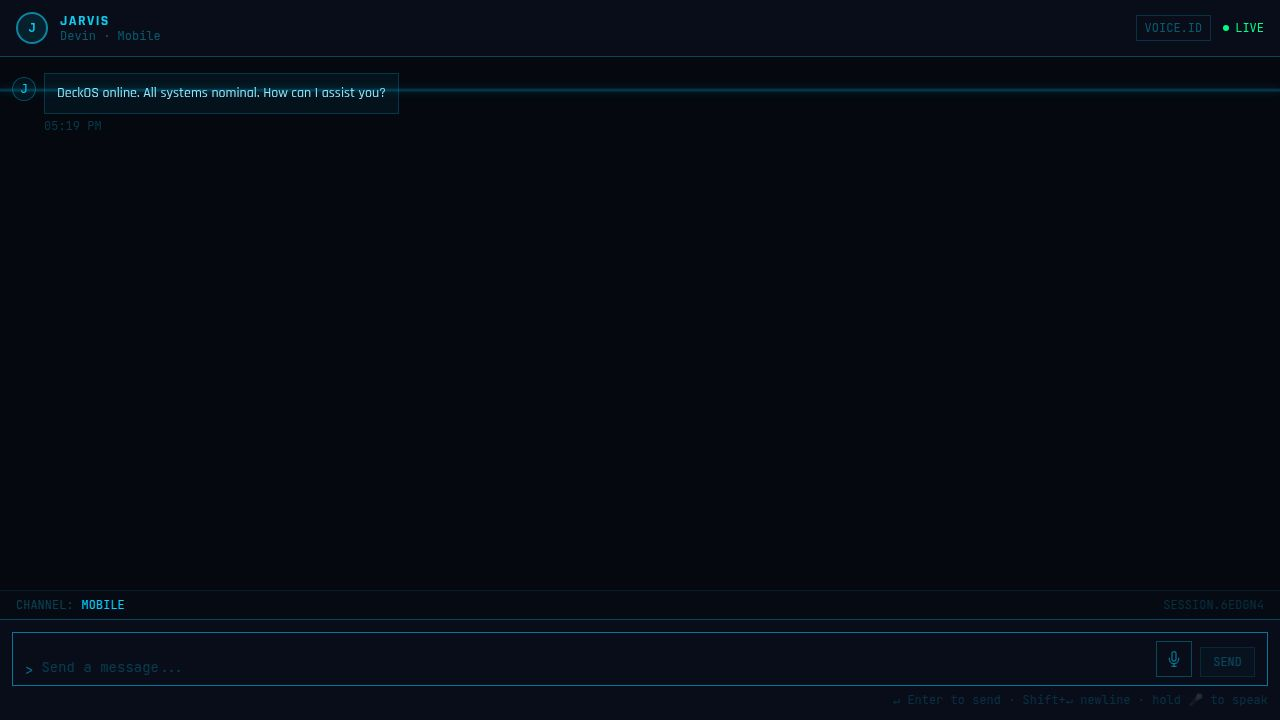
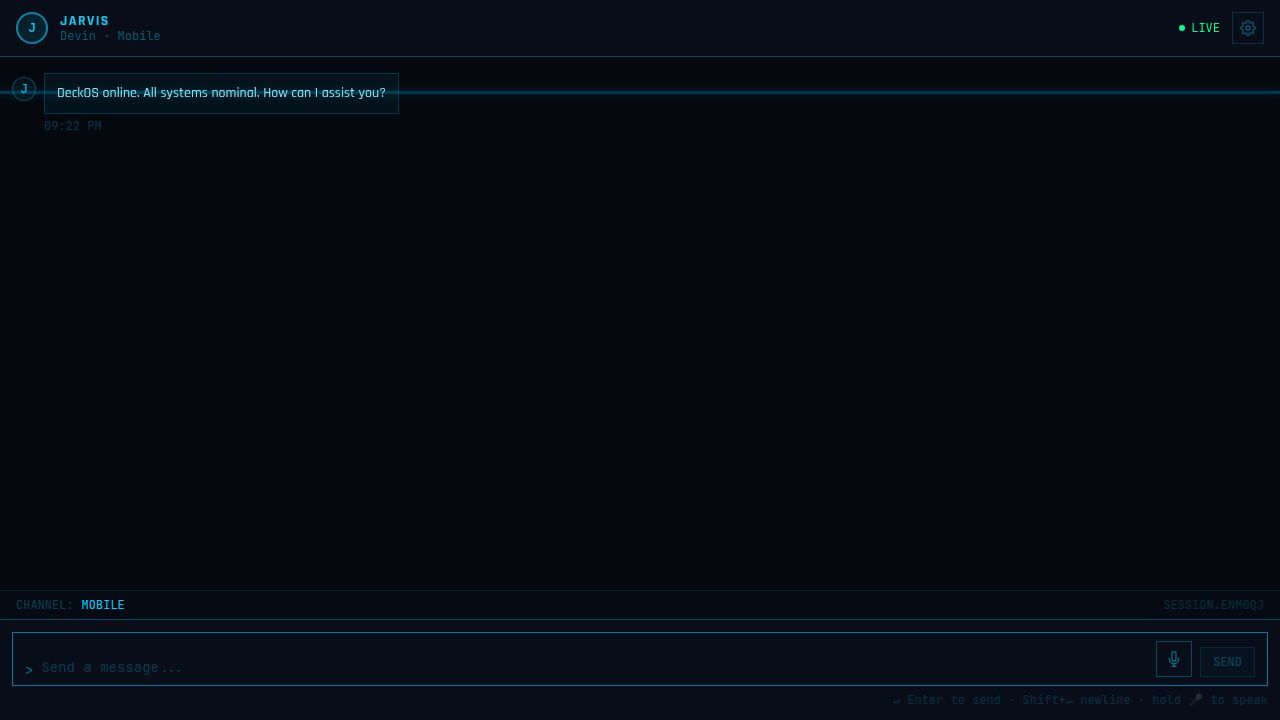
Merged changes from f8mqx4ns/main
Replit-Task-Id: e7a68ad4-e3e6-4f6e-b80c-e54e47326248

Changed region(s): [[0.2188, 0.1222, 1.0, 0.1528], [0.0, 0.1222, 0.1875, 0.1528], [0.875, 0.0306, 1.0, 0.0611]]

diff --git a/artifacts/deck-os/src/pages/Settings.tsx b/artifacts/deck-os/src/pages/Settings.tsx
@@ -1,8 +1,8 @@
-import { useState, useEffect } from "react";
+import { useState, useEffect, useCallback } from "react";
 import {
   Settings as SettingsIcon, Wifi, Key, Cpu, CheckCircle2,
   XCircle, Loader2, Eye, EyeOff, Save, AlertTriangle, RotateCcw, Zap,
-  Volume2, Mic, Globe, HardDrive,
+  Volume2, Mic, Globe, HardDrive, ShieldCheck, RefreshCw, Database, Server,
 } from "lucide-react";
 import { Card, CardContent, CardHeader, CardTitle } from "@/components/ui/card";
 
@@ -15,7 +15,21 @@ type FeatureMap = {
   store: FeatureInfo;
 };
 
-type Tab = "connection" | "apikeys" | "models";
+type Tab = "connection" | "apikeys" | "models" | "system";
+
+type HealthStatus = {
+  ok: boolean | null;
+  label: string;
+  checkedAt: string | null;
+  hint: string;
+};
+
+type SystemHealth = {
+  api: HealthStatus;
+  db: HealthStatus;
+  ollama: HealthStatus;
+  openwebui: HealthStatus;
+};
 
 type ConfigState = {
   OLLAMA_HOST:          string;
@@ -83,6 +97,104 @@ export default function Settings() {
   const [elTestOk, setElTestOk]           = useState<boolean | null>(null);
   const [localTesting, setLocalTesting]   = useState(false);
   const [localTestOk, setLocalTestOk]     = useState<boolean | null>(null);
+
+  const [health, setHealth] = useState<SystemHealth | null>(null);
+  const [healthChecking, setHealthChecking] = useState(false);
+
+  const fetchHealth = useCallback(async () => {
+    setHealthChecking(true);
+    const now = new Date().toISOString();
+
+    let apiOk = false;
+    let dbOk = false;
+    let apiCheckedAt = now;
+
+    try {
+      const r = await fetch("/api/healthz");
+      if (r.ok) {
+        const data = await r.json() as { status: string; db?: boolean; timestamp?: string };
+        apiOk = data.status === "ok";
+        dbOk = data.db ?? false;
+        apiCheckedAt = data.timestamp ?? now;
+      }
+    } catch {
+      apiOk = false;
+      dbOk = false;
+    }
+
+    let ollamaOk = false;
+    let openwebuiOk = false;
+    let aiCheckedAt = now;
+
+    try {
+      const r = await fetch("/api/ai-router/status");
+      if (r.ok) {
+        const data = await r.json() as { ollamaAvailable: boolean; cloudAvailable: boolean; lastDetectedAt?: string };
+        ollamaOk = data.ollamaAvailable;
+        aiCheckedAt = data.lastDetectedAt ?? now;
+      }
+    } catch {
+      ollamaOk = false;
+    }
+
+    const storedConfig = await fetch("/api/config").then((r) => r.json()).catch(() => ({ config: {} })) as { config: Record<string, string> };
+    const owHost = storedConfig.config?.["OPENWEBUI_HOST"] ?? "";
+
+    if (owHost.trim()) {
+      try {
+        const r = await fetch("/api/config/test-connection", {
+          method: "POST",
+          headers: { "Content-Type": "application/json" },
+          body: JSON.stringify({ url: owHost, type: "openwebui" }),
+        });
+        if (r.ok) {
+          const data = await r.json() as { ok: boolean };
+          openwebuiOk = data.ok;
+        }
+      } catch {
+        openwebuiOk = false;
+      }
+    }
+
+    setHealth({
+      api: {
+        ok: apiOk,
+        label: "API SERVER",
+        checkedAt: apiCheckedAt,
+        hint: apiOk ? "" : "API server is not responding. Check that the Docker container is running: docker-compose ps",
+      },
+      db: {
+        ok: dbOk,
+        label: "DATABASE",
+        checkedAt: apiCheckedAt,
+        hint: dbOk ? "" : "Database is unreachable. Run: docker-compose logs db — and check migration status.",
+      },
+      ollama: {
+        ok: ollamaOk,
+        label: "OLLAMA",
+        checkedAt: aiCheckedAt,
+        hint: ollamaOk ? "" : "Ollama is offline. Start it with: ollama serve — and pull a model: ollama pull gemma3:9b",
+      },
+      openwebui: {
+        ok: owHost.trim() ? openwebuiOk : null,
+        label: "OPEN WEBUI",
+        checkedAt: aiCheckedAt,
+        hint: !owHost.trim()
+          ? "No Open WebUI host configured — set it in the Connection tab to enable this check."
+          : openwebuiOk
+          ? ""
+          : "Open WebUI is unreachable. Check it's running at the configured host and the API key is correct.",
+      },
+    });
+
+    setHealthChecking(false);
+  }, []);
+
+  useEffect(() => {
+    if (tab === "system" && !health && !healthChecking) {
+      fetchHealth();
+    }
+  }, [tab, health, healthChecking, fetchHealth]);
 
   useEffect(() => {
     fetch("/api/features")
@@ -248,6 +360,7 @@ export default function Settings() {
     { id: "connection", label: "CONNECTION",  icon: <Wifi className="w-3 h-3" /> },
     { id: "apikeys",    label: "API KEYS",     icon: <Key className="w-3 h-3" /> },
     { id: "models",     label: "MODELS",       icon: <Cpu className="w-3 h-3" /> },
+    { id: "system",     label: "SYSTEM HEALTH", icon: <ShieldCheck className="w-3 h-3" /> },
   ];
 
   return (
@@ -686,6 +799,96 @@ export default function Settings() {
               </div>
             </CardContent>
           </Card>
+        </div>
+      )}
+
+      {/* SYSTEM HEALTH tab */}
+      {tab === "system" && (
+        <div className="grid gap-6 max-w-2xl">
+          <Card className="bg-card/40 border-primary/20 rounded-none">
+            <CardHeader className="border-b border-primary/20 p-4">
+              <CardTitle className="font-mono text-xs text-primary flex items-center gap-2 justify-between">
+                <span className="flex items-center gap-2">
+                  <ShieldCheck className="w-3.5 h-3.5" />
+                  SYSTEM.HEALTH // DOCKER SETUP STATUS
+                </span>
+                <button
+                  onClick={fetchHealth}
+                  disabled={healthChecking}
+                  className="flex items-center gap-1.5 px-3 py-1 border border-primary/40 font-mono text-xs text-primary hover:bg-primary/10 transition-all disabled:opacity-50"
+                >
+                  {healthChecking
+                    ? <Loader2 className="w-3 h-3 animate-spin" />
+                    : <RefreshCw className="w-3 h-3" />
+                  }
+                  RE-CHECK
+                </button>
+              </CardTitle>
+            </CardHeader>
+            <CardContent className="p-0">
+              {!health && healthChecking && (
+                <div className="flex items-center gap-2 p-6 font-mono text-xs text-primary/40">
+                  <Loader2 className="w-4 h-4 animate-spin" />
+                  RUNNING HEALTH CHECKS...
+                </div>
+              )}
+              {health && (
+                <div className="divide-y divide-primary/10">
+                  {(
+                    [
+                      { key: "api",      icon: <Server className="w-3.5 h-3.5" />,   s: health.api },
+                      { key: "db",       icon: <Database className="w-3.5 h-3.5" />,  s: health.db },
+                      { key: "ollama",   icon: <HardDrive className="w-3.5 h-3.5" />, s: health.ollama },
+                      { key: "openwebui",icon: <Globe className="w-3.5 h-3.5" />,     s: health.openwebui },
+                    ] as const
+                  ).map(({ key, icon, s }) => (
+                    <div key={key} className="p-4 space-y-2">
+                      <div className="flex items-center justify-between">
+                        <div className="flex items-center gap-2 font-mono text-xs text-primary/60">
+                          {icon}
+                          <span className="uppercase tracking-widest">{s.label}</span>
+                        </div>
+                        <div className="flex items-center gap-3">
+                          {s.checkedAt && (
+                            <span className="font-mono text-[10px] text-primary/25">
+                              {new Date(s.checkedAt).toLocaleTimeString()}
+                            </span>
+                          )}
+                          {s.ok === null ? (
+                            <span className="flex items-center gap-1 font-mono text-xs text-primary/30">
+                              <XCircle className="w-3 h-3" />NOT CONFIGURED
+                            </span>
+                          ) : s.ok ? (
+                            <span className="flex items-center gap-1 font-mono text-xs text-[#11d97a]">
+                              <CheckCircle2 className="w-3 h-3" />OK
+                            </span>
+                          ) : (
+                            <span className="flex items-center gap-1 font-mono text-xs text-[#f03248]">
+                              <XCircle className="w-3 h-3" />FAIL
+                            </span>
+                          )}
+                        </div>
+                      </div>
+                      {s.hint && (
+                        <div className={`font-mono text-[11px] leading-relaxed pl-5 ${s.ok === null ? "text-primary/30" : "text-[#ffc820]/80"}`}>
+                          {s.hint}
+                        </div>
+                      )}
+                    </div>
+                  ))}
+                </div>
+              )}
+            </CardContent>
+          </Card>
+
+          <div className="p-3 border border-primary/10 bg-primary/5 font-mono text-xs text-primary/40 space-y-1.5">
+            <div className="text-primary/60 mb-1">DOCKER QUICK REFERENCE</div>
+            <div>• Check all containers: <span className="text-primary">docker-compose ps</span></div>
+            <div>• View API logs: <span className="text-primary">docker-compose logs api --tail=50</span></div>
+            <div>• View DB logs: <span className="text-primary">docker-compose logs db --tail=50</span></div>
+            <div>• Restart a service: <span className="text-primary">docker-compose restart api</span></div>
+            <div>• Run migrations: <span className="text-primary">docker-compose run --rm api pnpm db:migrate</span></div>
+          </div>
         </div>
       )}
 

diff --git a/artifacts/api-server/src/routes/health.ts b/artifacts/api-server/src/routes/health.ts
@@ -1,10 +1,22 @@
 import { Router, type IRouter } from "express";
+import { sql } from "drizzle-orm";
+import { db } from "@workspace/db";
 import { HealthCheckResponse } from "@workspace/api-zod";
 
 const router: IRouter = Router();
 
-router.get("/healthz", (_req, res) => {
-  const data = HealthCheckResponse.parse({ status: "ok" });
+router.get("/healthz", async (_req, res) => {
+  const timestamp = new Date().toISOString();
+
+  let dbOk = false;
+  try {
+    await db.execute(sql`SELECT 1`);
+    dbOk = true;
+  } catch {
+    dbOk = false;
+  }
+
+  const data = HealthCheckResponse.parse({ status: "ok", db: dbOk, timestamp });
   res.json(data);
 });
 
